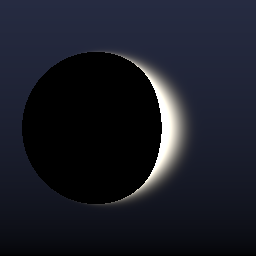
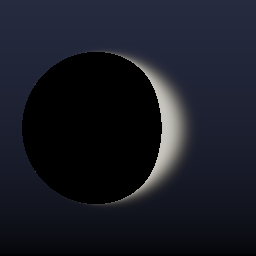
Step 7 complete: disk render working, seam documented as known TODO for Taichi

Changed region(s): [[0.5625, 0.2812, 0.7188, 0.7188], [0.5312, 0.7188, 0.5625, 0.75], [0.5312, 0.25, 0.5625, 0.2812]]

diff --git a/scripts/seam_diag.py b/scripts/seam_diag.py
@@ -1,0 +1,91 @@
+"""Seam diagnostic: r_min and photon-ring glow along the center column.
+
+Reproduces the render() camera setup and walks the vertical center column
+(px = res//2), which crosses the top and bottom of the shadow where the
+polar-axis "beaded seam" appeared. Reports r_min and the resulting glow
+weight per row, then counts extrema (sign changes in the row-to-row diff)
+of the glow. A smooth, monotonic glow approaching the shadow edge => 0
+interior extrema along each monotone arm.
+"""
+
+from __future__ import annotations
+
+import numpy as np
+
+from thumb import (
+    build_disk_params,
+    camera_ray_direction,
+    load_config,
+    ring_glow,
+    trace_pixel,
+)
+
+
+def main(res: int = 256) -> None:
+    cfg = load_config()
+    bh = cfg["black_hole"]
+    rcfg = cfg["render"]
+    cam = cfg["camera"]
+    th = cfg["thumb"]
+
+    a = float(bh["spin"])
+    r_plus = float(bh["r_plus"])
+    r_cam = float(th.get("camera_radius", cam["default_radius"]))
+    fov_deg = float(th.get("fov_deg", cam["default_fov_deg"]))
+    theta_cam = np.deg2rad(float(th["camera_theta_deg"]))
+    phi_cam = 0.0
+
+    n_steps = int(rcfg["max_steps_pipe_a"])
+    d_lambda = float(rcfg["d_lambda_pipe_a"])
+    r_max = float(rcfg["r_max"])
+
+    ring_col = np.array(th["ring_color"], dtype=float)
+    ring_gain = float(th["ring_gain"])
+    ring_peak = float(th["ring_r_peak"])
+    ring_sigma = float(th["ring_r_sigma"])
+
+    tan_half_fov = np.tan(np.deg2rad(fov_deg) / 2.0)
+    disk_params = build_disk_params(cfg, a, d_lambda)
+
+    px = res // 2
+    rows, outcomes, r_mins, glows = [], [], [], []
+    for py in range(res):
+        n = camera_ray_direction(px, py, res, tan_half_fov)
+        outcome, r_min, _dc, _tr = trace_pixel(
+            r_cam, theta_cam, phi_cam, a, n,
+            n_steps, d_lambda, r_max, r_plus, disk_params,
+        )
+        # Glow brightness scalar (max channel of the ring_glow vector); 0 for
+        # captured pixels which render as the black shadow.
+        if outcome == "captured":
+            glow = 0.0
+        else:
+            glow = float(np.max(ring_glow(r_min, ring_peak, ring_sigma,
+                                          ring_gain, ring_col)))
+        rows.append(py)
+        outcomes.append(outcome)
+        r_mins.append(r_min)
+        glows.append(glow)
+
+    g = np.array(glows)
+    rm = np.array(r_mins)
+
+    # Extrema = interior sign changes in the first difference of the glow
+    # profile. A clean profile rises monotonically to the shadow edge then
+    # falls -> exactly the turning points where it crosses the shadow, no beads.
+    dg = np.diff(g)
+    nz = dg[np.abs(dg) > 1e-9]
+    sign_changes = int(np.sum(np.diff(np.sign(nz)) != 0)) if nz.size > 1 else 0
+
+    print(f"center column px={px}, res={res}")
+    print(f"glow extrema (interior sign changes in diff): {sign_changes}")
+    print(f"glow range: {g.min():.4f} .. {g.max():.4f}")
+    print()
+    print(" py  outcome     r_min     glow")
+    for py, oc, r_min, glow in zip(rows, outcomes, r_mins, glows):
+        if 96 <= py <= 160:  # zoom on the shadow edge / seam region
+            print(f"{py:3d}  {oc:9s}  {r_min:8.4f}  {glow:8.4f}")
+
+
+if __name__ == "__main__":
+    main()

diff --git a/src/renderer/geodesic.py b/src/renderer/geodesic.py
@@ -58,10 +58,40 @@ def _radial_potential_deriv(r: float, E: float, L_z: float, Q: float, a: float) 
     return 4.0 * E * r * P - (2.0 * r - 2.0) * B
 
 
+def radial_turning_point(E, L_z, Q, a, r_start, r_floor, n_scan=160):
+    """Outermost radial turning point (perihelion) of a null geodesic.
+
+    The photon's closest approach is where the radial potential R(r) (Formula 6)
+    vanishes. Scanning inward from ``r_start`` (where R > 0), the first sign
+    change of R(r) is the perihelion; it is refined by bisection. Returns
+    ``r_floor`` if R stays positive all the way down — a plunging ray with no
+    turning point.
+
+    This gives the renderer a smooth, sampling-free closest-approach radius. The
+    discretely sampled trajectory minimum aliases near perihelion and beads the
+    photon-ring glow (the polar-axis seam); the analytic root does not.
+    """
+    rs = np.linspace(r_start, r_floor, n_scan)
+    R_prev = _radial_potential(rs[0], E, L_z, Q, a)
+    for k in range(1, n_scan):
+        R_cur = _radial_potential(rs[k], E, L_z, Q, a)
+        if R_prev * R_cur <= 0.0:
+            lo, hi = rs[k], rs[k - 1]          # R(hi) > 0, R(lo) <= 0
+            for _ in range(48):
+                mid = 0.5 * (lo + hi)
+                if _radial_potential(mid, E, L_z, Q, a) > 0.0:
+                    hi = mid
+                else:
+                    lo = mid
+            return 0.5 * (lo + hi)
+        R_prev = R_cur
+    return r_floor
+
+
 def _theta_potential(theta: float, E: float, L_z: float, Q: float, a: float) -> float:
     """Θ(θ), Formula 6 (null form)."""
     cos2 = np.cos(theta) ** 2
-    sin2 = np.sin(theta) ** 2
+    sin2 = np.maximum(np.sin(theta) ** 2, 1e-10)  # polar-axis safety clamp (denominator)
     return Q - cos2 * (-(a * a) * E * E + L_z * L_z / sin2)
 
 
@@ -71,9 +101,10 @@ def _theta_potential_deriv(theta: float, E: float, L_z: float, a: float) -> floa
     Θ = Q + a²E²cos²θ − L_z²cos²θ/sin²θ, so
     dΘ/dθ = −a²E²·sin(2θ) + 2 L_z² cosθ / sin³θ.
     """
-    s = np.sin(theta)
+    sin2 = np.maximum(np.sin(theta) ** 2, 1e-10)  # polar-axis safety clamp (denominator)
     c = np.cos(theta)
-    return -(a * a) * E * E * np.sin(2.0 * theta) + 2.0 * L_z * L_z * c / (s ** 3)
+    # sin^3 theta = (sin^2 theta)^1.5; clamp the sin^2 factor of the denominator.
+    return -(a * a) * E * E * np.sin(2.0 * theta) + 2.0 * L_z * L_z * c / sin2 ** 1.5
 
 
 def carter_Q(theta: float, p_theta: float, E: float, L_z: float, a: float) -> float:
@@ -82,7 +113,7 @@ def carter_Q(theta: float, p_theta: float, E: float, L_z: float, a: float) -> fl
         Q = p_θ² + cos²θ · (−a²E² + L_z²/sin²θ)
     """
     cos2 = np.cos(theta) ** 2
-    sin2 = np.sin(theta) ** 2
+    sin2 = np.maximum(np.sin(theta) ** 2, 1e-10)  # polar-axis safety clamp (denominator)
     return p_theta ** 2 + cos2 * (-(a * a) * E * E + L_z * L_z / sin2)
 
 
@@ -147,6 +178,7 @@ def integrate_null_geodesic(x0, p0, a, n_steps, d_lambda):
         r, th, _phi, _t, vr, vth = state
         Delta = _delta(r, a)
         sin2 = np.sin(th) ** 2
+        sin2_safe = np.maximum(sin2, 1e-10)  # polar-axis safety clamp (denominator)
         P = E * (r * r + a * a) - a * L_z
 
         dr = vr
@@ -154,7 +186,7 @@ def integrate_null_geodesic(x0, p0, a, n_steps, d_lambda):
         dvr = 0.5 * _radial_potential_deriv(r, E, L_z, Q, a)
         dvth = 0.5 * _theta_potential_deriv(th, E, L_z, a)
         # Formula 6 verbatim:
-        dphi = -(a * E - L_z / sin2) + a * P / Delta
+        dphi = -(a * E - L_z / sin2_safe) + a * P / Delta
         dt = -a * (a * E * sin2 - L_z) + (r * r + a * a) * P / Delta
         return np.array([dr, dth, dphi, dt, dvr, dvth], dtype=float)
 

diff --git a/scripts/thumb.py b/scripts/thumb.py
@@ -42,7 +42,11 @@ _SRC = Path(__file__).resolve().parents[1] / "src"
 if str(_SRC) not in sys.path:
     sys.path.insert(0, str(_SRC))
 
-from renderer.geodesic import integrate_null_geodesic  # noqa: E402
+from renderer.geodesic import (  # noqa: E402
+    carter_Q,
+    integrate_null_geodesic,
+    radial_turning_point,
+)
 from renderer.metric import metric_bl  # noqa: E402
 from renderer.disk import (  # noqa: E402
     blackbody_rgb,
@@ -162,16 +166,26 @@ def trace_pixel(r_cam, theta_cam, phi_cam, a, n, n_steps, d_lambda,
     r_finite = r_series[finite]
     if r_finite.size == 0:
         return "captured", r_plus, disk_color, transmittance
-    r_min = float(np.min(r_finite))
+
+    # Closest-approach radius for the photon-ring glow: use the ANALYTIC radial
+    # turning point (root of Formula-6 R(r)), not the min over discrete samples.
+    # The sampled min aliases near perihelion and beads the glow along the polar
+    # axis; the analytic root is smooth in the ray parameters. Only computed for
+    # non-captured rays (captured pixels render black, so r_min is unused).
+    E = -p_cov[T]
+    L_z = p_cov[PH]
+    Q = carter_Q(theta_cam, p_cov[TH], E, L_z, a)
 
     if np.any(r_finite >= r_max):
+        r_min = radial_turning_point(E, L_z, Q, a, r_cam, r_plus)
         return "escaped", r_min, disk_color, transmittance
 
     r_last = float(r_finite[-1])
     # The integrator stops when Delta < its horizon threshold; a small final r
     # means the photon plunged through the horizon.
     if r_last < 2.0:
-        return "captured", r_min, disk_color, transmittance
+        return "captured", r_plus, disk_color, transmittance
+    r_min = radial_turning_point(E, L_z, Q, a, r_cam, r_plus)
     return "undecided", r_min, disk_color, transmittance
 
 
@@ -194,6 +208,10 @@ def ring_glow(r_min, peak, sigma, gain, color):
 # Pipe B — volumetric accretion disk
 # --------------------------------------------------------------------------- #
 def march_disk(x, p_cov, dp):
+    # KNOWN ARTIFACT: near-polar-axis seam caused by discrete λ-step
+    # aliasing at the θ=π/2 disk-plane crossing. Fix for Taichi renderer:
+    # detect θ=π/2 crossing analytically (bisect between steps where
+    # sign(θ-π/2) flips) and sample exactly at the crossing point.
     """Accumulate disk emission along an already-traced geodesic.
 
     Implements Formulas 5/3 (gas velocity), 8 (g-factor) and 9 (emission) of